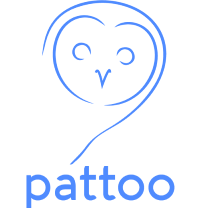
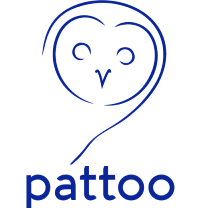
Create Chart Modal
Initial creating and configuring of ReactModal to house the ability to
create new charts, and chart favorites. Updates to Login.js component
colors and updates to pattoo logo throughout application.

diff --git a/pattoo_web/src/components/Login.js b/pattoo_web/src/components/Login.js
@@ -26,14 +26,14 @@ function LoginComponent({
           <input
             type="text"
             placeholder="Login"
-            className="w-full border-b-2 pb-2 text-sm text-grey-500"
+            className="w-full border-b-2 pb-2 text-sm text-grey-500 focus:outline-none focus:border-pattooAccentTwo"
             value={username}
             onChange={updateLoginField}
           />
           <input
             type="password"
             placeholder="Password"
-            className="mt-8 w-full border-b-2 pb-2 text-sm text-grey-500"
+            className="mt-8 w-full border-b-2 pb-2 text-sm text-grey-500 focus:outline-none focus:border-pattooAccentTwo"
             value={password}
             onChange={updatePasswordField}
           />
@@ -42,13 +42,18 @@ function LoginComponent({
         <div className="mt-8 flex flex-col items-center">
           <button
             onClick={submission}
-            className="w-2/3 bg-gray-500 uppercase text-sm font-bold text-white rounded-full py-5"
+            className="w-2/3 bg-pattooAccentThree uppercase text-sm font-black text-white rounded-full py-5 "
           >
             Sign in now
           </button>
           <p className="mt-5 text-sm text-gray-500">
-            Forgot Password?
-            <a href="#" className="ml-1 hover:underline font-bold">
+            <span className="text-pattooAccentOne font-medium">
+              Forgot Password?
+            </span>
+            <a
+              href="#"
+              className="ml-1 hover:underline font-bold text-pattooAccentThree"
+            >
               Request to reset
             </a>
           </p>

diff --git a/pattoo_web/src/components/Sidebar.js b/pattoo_web/src/components/Sidebar.js
@@ -20,13 +20,31 @@ import {
 /* Assets Imports */
 import PattooLogo from "../assets/pattoo-light 1.png";
 
+// Binding React Modal to public/index.html 'modal' element
+Modal.setAppElement("#modal");
+Modal.defaultStyles.overlay.backgroundColor = "rgba(240, 244, 255, 0.5)";
+
 /* Sidebar Components */
 function Header() {
   const [showModal, setShowModal] = useState(false);
-  const updateShowModal = (e) => setShowModal(true);
+  const updateShowModal = () => setShowModal(true);
+
+  const closeModal = () => setShowModal(false);
 
   return (
     <div className="row-span-1 py-5 flex flex-col justify-between">
+      <Modal
+        isOpen={true}
+        onRequestClose={closeModal}
+        shouldCloseOnOverlayClick={true}
+        className={`container mx-auto mt-56 rounded-lg shadow-card bg-white w-1/2 p-16`}
+      >
+        <h2 className="text-4xl font-main font-bold text-pattooAccentOne">
+          Create Chart
+        </h2>
+        <div className=""></div>
+      </Modal>
+
       <div className="w-full flex justify-between items-center border-b border-grey-200  p-5">
         <img src={PattooLogo} className="object-contain h-16" />
         <p className="text-center text-xs text-gray-600 font-bold">v1.0</p>
@@ -41,6 +59,8 @@ function Header() {
     </div>
   );
 }
+
+function CreateChartModal() {}
 
 function Nav({ elements, subtitle }) {
   return (

diff --git a/pattoo_web/public/index.html b/pattoo_web/public/index.html
@@ -29,6 +29,7 @@
   <body>
     <noscript>You need to enable JavaScript to run this app.</noscript>
     <div id="root"></div>
+    <div id="modal"></div>
     <!--
       This HTML file is a template.
       If you open it directly in the browser, you will see an empty page.
